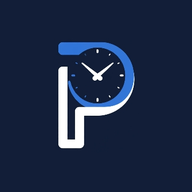
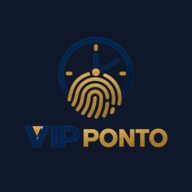
Changes

Changed region(s): [[0.125, 0.1875, 0.875, 0.7812]]

diff --git a/public/ponto-offline-sw.js b/public/ponto-offline-sw.js
@@ -1,10 +1,10 @@
 /* Only the kiosk shell and public static files. Never cache API/auth/company responses. */
-const CACHE = 'ponto-static-20261021-operacional-v3';
+const CACHE = 'ponto-static-20261022-icone-v1';
 const SHELL = '/vip-ponto.html';
 const ASSETS = [SHELL, '/jspdf-2.5.1.umd.min.js', '/jspdf.plugin.autotable.min.js',
   '/jszip-3.10.1.min.js', '/xlsx-0.18.5.full.min.js', '/supabase-2.117.3.min.js',
   '/qrcode-generator.min.js', '/ponto-offline-register.js', '/vip-logo.png',
-  '/favicon.png', '/pwa-icon-192.png', '/pwa-icon-512.png', '/manifest.webmanifest'];
+  '/favicon-v20261022.png', '/pwa-icon-192-v20261022.png', '/pwa-icon-512-v20261022.png', '/apple-touch-icon-v20261022.png', '/manifest.webmanifest'];
 self.addEventListener('install', event => {
   event.waitUntil(caches.open(CACHE).then(cache => cache.addAll(ASSETS)).then(() => self.skipWaiting()));
 });

diff --git a/public/vip-ponto.html b/public/vip-ponto.html
@@ -4,9 +4,9 @@
 <meta charset="utf-8" />
 <meta name="viewport" content="width=device-width, initial-scale=1, maximum-scale=1" />
 <title>Ponto Pro Gestão — Registro Eletrônico de Ponto (Portaria MTE 671/2021)</title>
-<link rel="icon" href="/favicon.png" />
-<link rel="apple-touch-icon" href="/pwa-icon-192.png" />
-<link rel="manifest" href="/manifest.webmanifest" />
+<link rel="icon" href="/favicon-v20261022.png" />
+<link rel="apple-touch-icon" sizes="180x180" href="/apple-touch-icon-v20261022.png" />
+<link rel="manifest" href="/manifest.webmanifest?v=20261022" />
 <link rel="preconnect" href="https://fonts.googleapis.com" />
 <link rel="preconnect" href="https://fonts.gstatic.com" crossorigin />
 <link rel="stylesheet" href="https://fonts.googleapis.com/css2?family=Manrope:wght@400;500;600;700;800&amp;family=Sora:wght@600;700;800&amp;display=swap" />

diff --git a/src/routes/__root.tsx b/src/routes/__root.tsx
@@ -92,9 +92,9 @@ export const Route = createRootRouteWithContext<{ queryClient: QueryClient }>()(
         rel: "stylesheet",
         href: appCss,
       },
-      { rel: "icon", type: "image/png", href: "/favicon.png" },
-      { rel: "apple-touch-icon", href: "/pwa-icon-192.png" },
-      { rel: "manifest", href: "/manifest.webmanifest" },
+      { rel: "icon", type: "image/png", href: "/favicon-v20261022.png" },
+      { rel: "apple-touch-icon", sizes: "180x180", href: "/apple-touch-icon-v20261022.png" },
+      { rel: "manifest", href: "/manifest.webmanifest?v=20261022" },
     ],
   }),
   shellComponent: RootShell,

diff --git a/src/routes/index.tsx b/src/routes/index.tsx
@@ -26,7 +26,7 @@ function Index() {
   // O aplicativo completo é um único arquivo HTML/CSS/JS puro em /vip-ponto.html
   return (
     <iframe
-      src="/vip-ponto.html?v=20261021-operacional-v3"
+      src="/vip-ponto.html?v=20261022-icone-impressao"
       title="Ponto Pro Gestão"
       style={{ position: "fixed", inset: 0, width: "100%", height: "100%", border: 0 }}
     />
